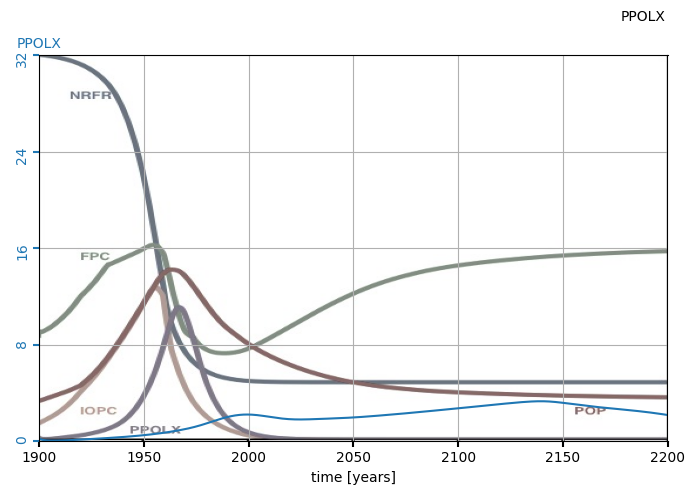
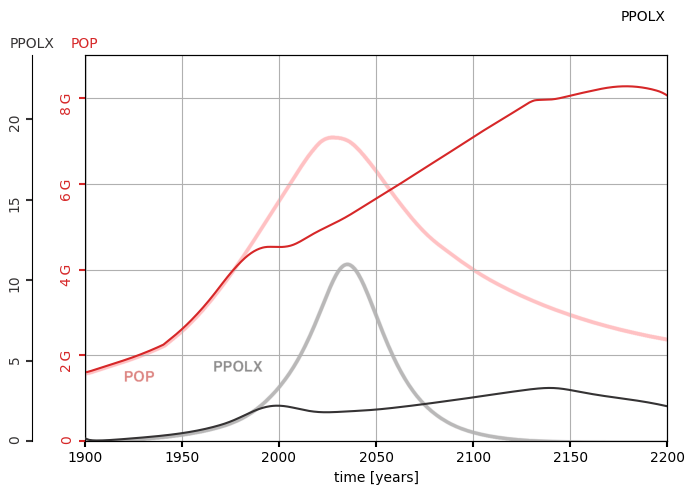
Lite oklara förändringar

diff --git a/example_world3_standard.py b/example_world3_standard.py
@@ -8,7 +8,7 @@ from pyworld3.utils import plot_world_variables
 params = {"lines.linewidth": "3"}
 plt.rcParams.update(params)
 
-world3 = World3(year_max=2500)
+world3 = World3(year_max=2200)
 world3.set_world3_control()
 world3.init_world3_constants()
 world3.init_world3_variables()
@@ -18,14 +18,14 @@ world3.run_world3(fast=False)
 
 plot_world_variables(
     world3.time,
-    [world3.nrfr, world3.iopc, world3.pop],
-    ["NRFR", "IOPC", "POP"],
-    [[0, 1], [0, 1e3], [0, 16e9]],
+    [world3.pop, world3.ppolx,],
+    ["POP", "PPOLX"],
+    [[0, 9e9], [0,24]],
     #img_background="./img/fig7-7.png",
     figsize=(7, 5),
     title="World3 standard run - General",
 )
-plt.savefig("fig_world3_standard_general.pdf")
+plt.savefig("fig_world3_standard_general_PPOLX.pdf")
 
 
 plot_world_variables(

diff --git a/pyworld3/utils.py b/pyworld3/utils.py
@@ -132,7 +132,7 @@ def plot_world_variables(
     """
     prop_cycle = plt.rcParams["axes.prop_cycle"]
     #colors = prop_cycle.by_key()["color"]
-    colors = ['#1f77b4', '#ff7f0e', '#2ca02c',  '#9467bd'] # control signals
+    colors = ['#d62728','#353334','#1f77b4', '#ff7f0e', '#2ca02c',  '#9467bd'] # control signals
     #colors = ['#1f77b4', '#ff7f0e', '#d62728', '#2ca02c',  '#9467bd'] # STD run 2500
 
 
